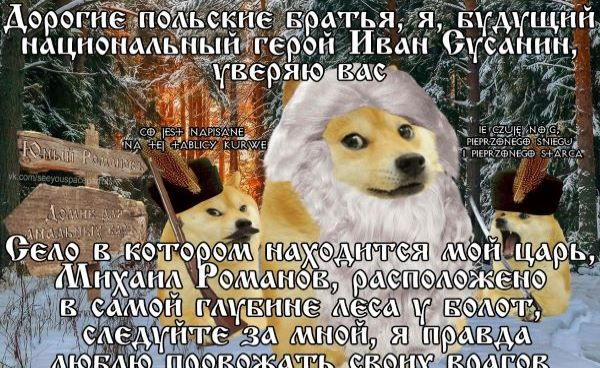
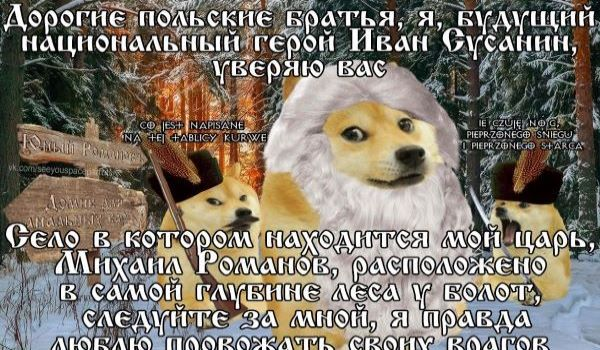
feat: add meme-descriptions and border for slider (Sun, Oct 17, 2021  3:47:13 AM)

diff --git a/style.css b/style.css
@@ -1,5 +1,6 @@
 html{
     height: 400px;
+    padding-bottom: 100px;
 }
 
 body{
@@ -88,9 +89,22 @@ input{
     display: flex;
     width: 400%;
     overflow: hidden;
-    height: 92%;
+    height: 87.5%;
     position: relative;
-    bottom:8%
+    bottom:8%;
+}
+
+.border{
+    content: "";
+    width: 102%;
+    height: 91.4%;
+    border: 5px solid rgb(98, 204, 236);
+    border-radius: 5%;
+    position: relative;
+    top: -116.3%;
+    right: 1%;
+    display: inline-block;
+    box-sizing: border-box;
 }
 
 .picture{
@@ -132,5 +146,40 @@ input{
 
 .forth-button:checked ~ .slider{
     transform: translate(-75%, 0);
+    transition: 0.5s;
+}
+
+.text{
+    position: relative;
+    top:3.5%;
+    opacity: 0;
+    display: block;
+    text-align: start;
+    width: fit-content;
+    font-family:'Gill Sans', 'Gill Sans MT', Calibri, 'Trebuchet MS', sans-serif;
+    color: rgb(156, 110, 23);
+}
+
+.first-button:checked ~ .first-text{
+    top:-2%;
+    opacity: 1;
+    transition: 0.5s;
+}
+
+.second-button:checked ~ .second-text{
+    top: -7%;
+    opacity: 1;
+    transition: 0.5s;
+}
+
+.third-button:checked ~ .third-text{
+    opacity: 1;
+    top:-12%;
+    transition: 0.5s;
+}
+
+.forth-button:checked ~ .forth-text{
+    opacity: 1;
+    top:-16%;
     transition: 0.5s;
 }

diff --git a/index.html b/index.html
@@ -23,7 +23,11 @@
             <div class="picture third"></div>
             <div class="picture forth"></div>
         </div>
+        <span class="first-text text">I talk to God every day, that's my bestie</span> 
+        <span class="second-text text">Obligatory funny yellow dog meme</span> 
+        <span class="third-text text">Spooky movies enjoyer</span> 
+        <span class="forth-text text">Literally me</span>
+        <div class="border"></div>
     </div>
-   
 </body>
 </html>
